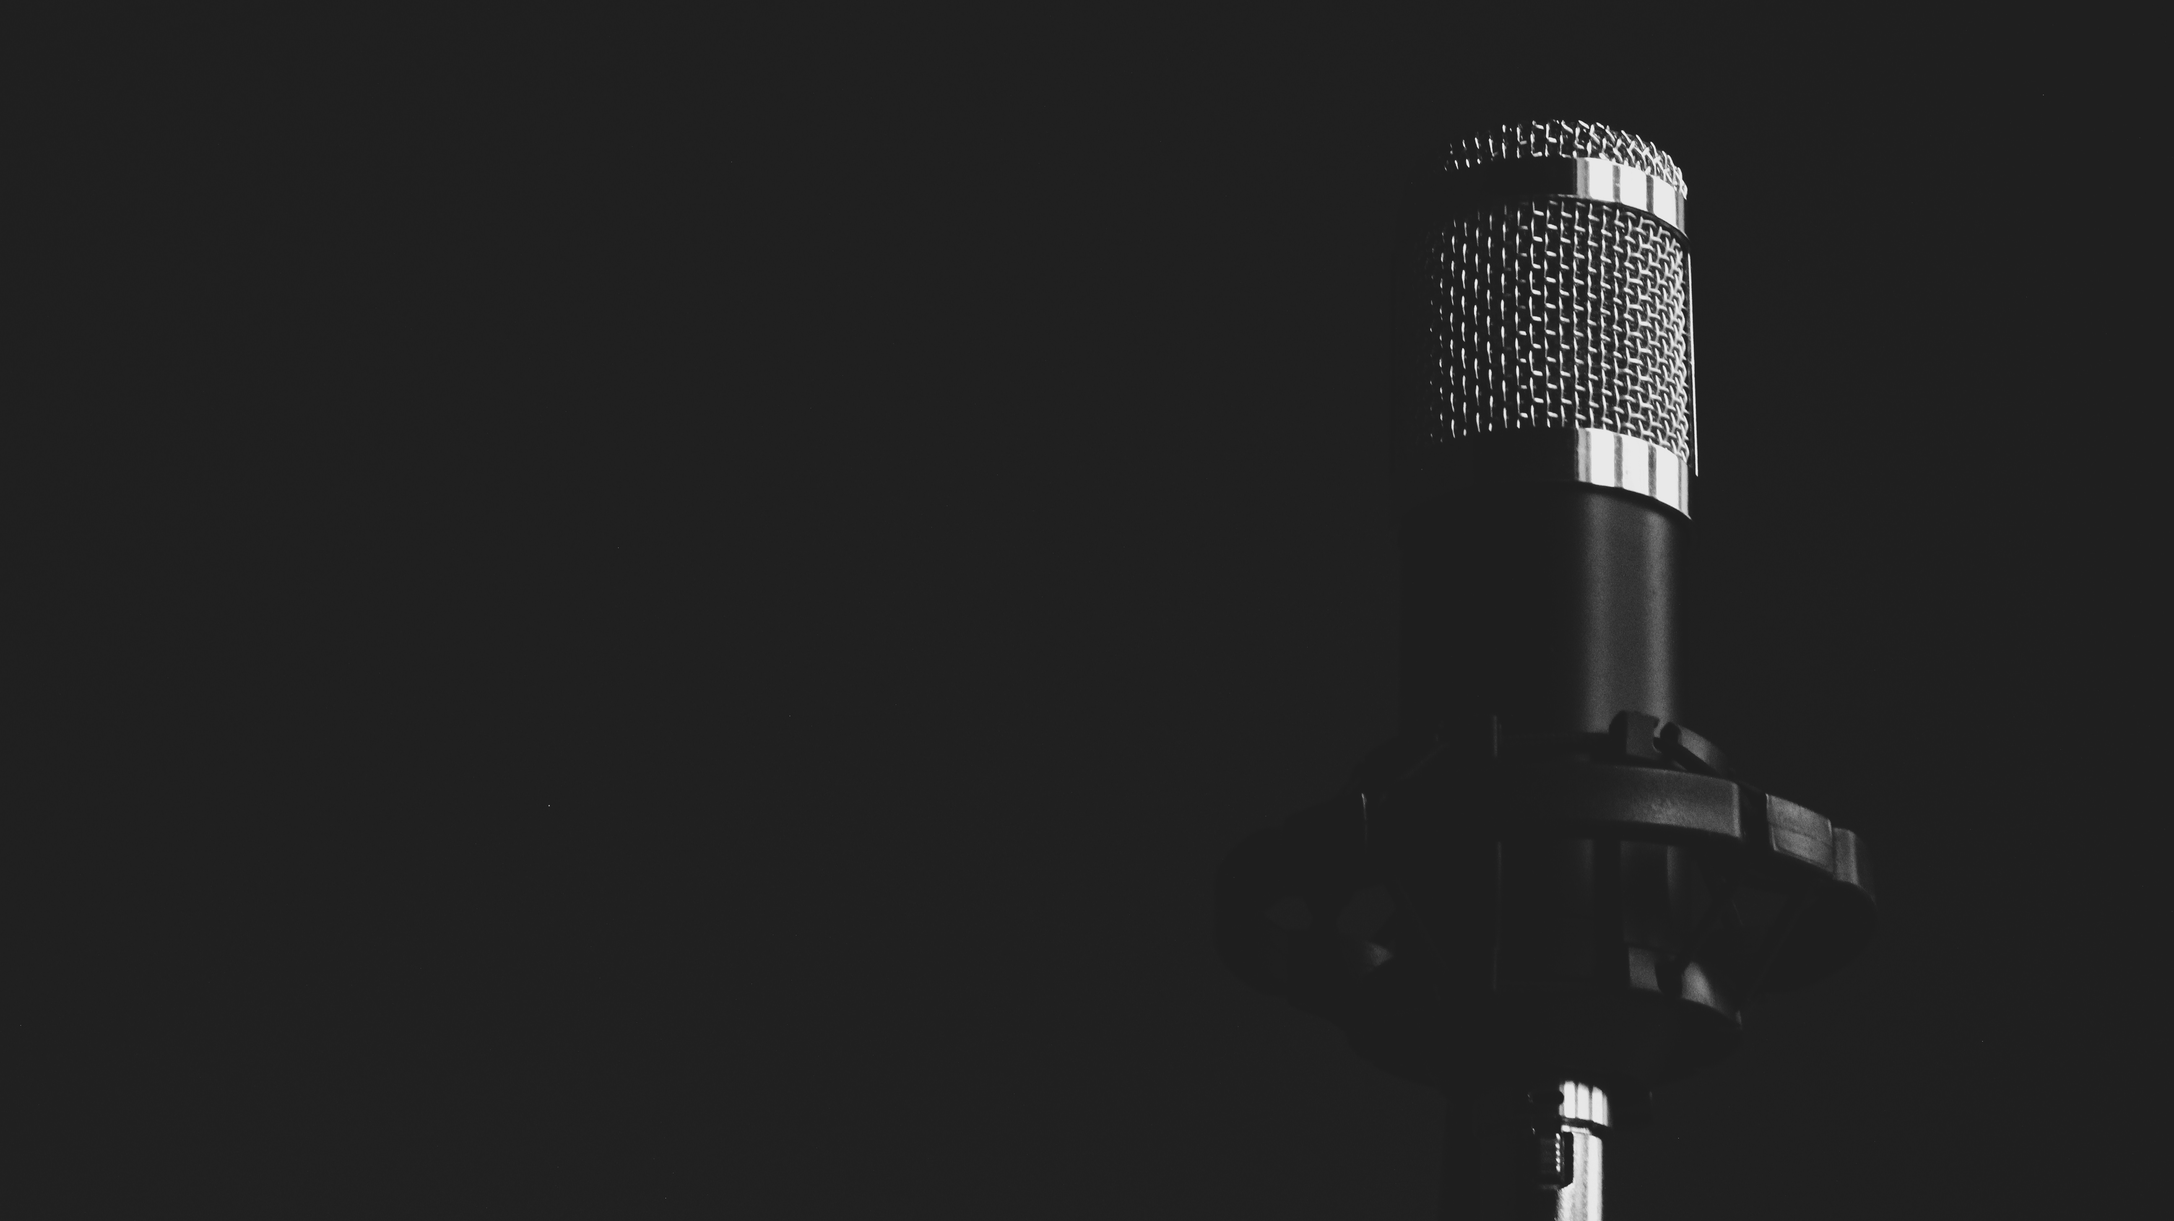
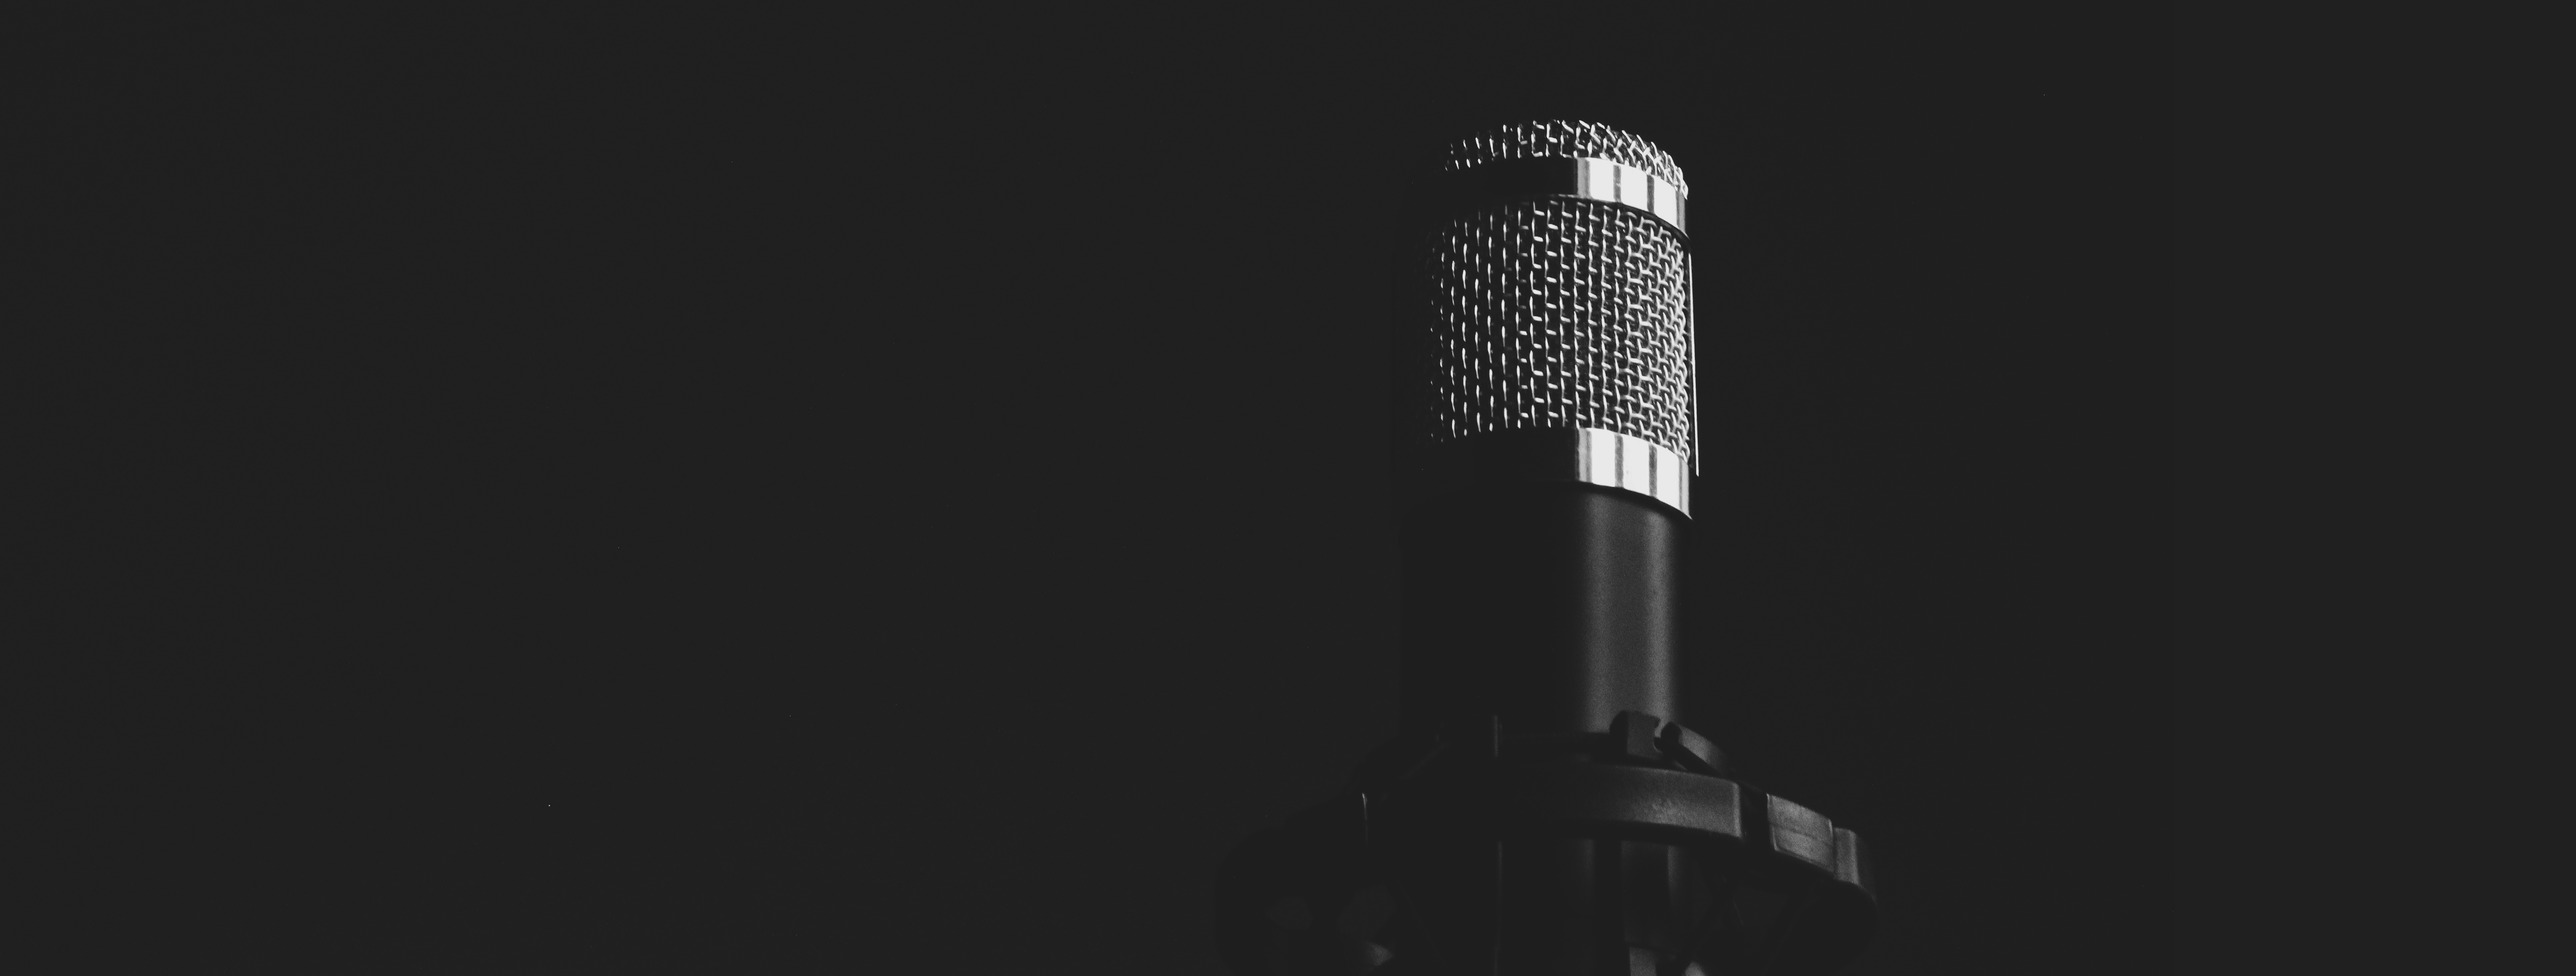
design and factorization
new heros to play with
new bg color, less grey, more blue
metadata factorised

diff --git a/layouts/_default/single.html b/layouts/_default/single.html
@@ -26,63 +26,7 @@
         {{ .Content }}
       </main>
 
-      <footer class="card-divider" id="metadatas">
-        <p><i class="fa fa-pencil"></i> Publié
-          {{ if .Params.date }}
-            le {{ dateFormat "02/01/2006" .Params.date }}
-          {{ end }}
-          {{ if .Params.Publisher }}
-            {{ $publisher := index .Site.Data.authors .Params.publisher }}
-            par <a href="/authors/{{.Params.publisher}}">{{ $publisher.name }}</a>
-          {{ else }}
-            par <a href="/authors/comptoirsecu">l'équipe du Comptoir Sécu</a>
-          {{ end }}
-        </p>
-        {{ with .Params.authors }}
-          <p><i class="fa fa-user"></i> Contributeurs:
-            {{ $len := sub (len .) 1  }}
-            {{ range $i, $a :=  . }}
-              {{ $author := index $.Site.Data.authors $a }}
-               <a href="/authors/{{$a}}">{{ $author.name }}</a>{{ if lt $i (sub $len 1) }}, {{ else }}{{ if lt $i $len }} et {{ else }}.{{ end }}{{ end }}
-
-            {{ end }}
-          </p>
-        {{ end }}
-        {{ with .Params.guests }}
-          <p><i class="fa fa-user-plus"></i> Invités:
-            {{ $len := sub (len .) 1  }}
-            {{ range $i, $g := . }}
-                {{ $guest := index $.Site.Data.guests $g }}
-                <a href="/guests/{{ $g | urlize}}">{{ $guest.name }}</a>{{ if lt $i (sub $len 1) }}, {{ else }}{{ if lt $i $len }} et {{ else }}.{{ end }}{{ end }}
-            {{ end }}
-          </p>
-        {{ end }}
-        {{ with .Params.songs }}
-          <p><i class="fa fa-music"></i> Interludes:
-            {{ $len := sub (len .) 1  }}
-            {{ range $i, $s := . }}
-                {{ $song := index $.Site.Data.songs $s }}
-                <a href="/songs/{{ $s | urlize}}">{{ $song.song }} ({{ $song.artist}})</a>{{ if lt $i (sub $len 1) }}, {{ else }}{{ if lt $i $len }} et {{ else }}.{{ end }}{{ end }}
-            {{ end }}
-          </p>
-        {{ end }}
-        {{ with .Params.drinks }}
-          <p><i class="fa fa-glass"></i> Dégustations:
-            {{ $len := sub (len .) 1  }}
-            {{ range $i, $d := . }}
-                {{ $drink := index $.Site.Data.drinks $d }}
-                <a href="/drinks/{{ $d | urlize}}">{{ $drink.name }}</a>{{ if lt $i (sub $len 1) }}, {{ else }}{{ if lt $i $len }} et {{ else }}.{{ end }}{{ end }}
-            {{ end }}
-          </p>
-        {{ end }}
-        {{ with .Params.tags }}
-        {{ $len := len . }}
-        <p><i class="fa fa-tag"></i> Tags:  {{ range $i, $tag := . }}
-                  <span class="label"><a href="/tags/{{ $tag | urlize}}">{{ $tag }}</a></span>
-                  {{ end }}
-        </p>
-        {{ end }}
-      </footer>
+      {{ partial "metadata.html" . }}
 
     </article>
   </section>

diff --git a/layouts/partials/metadata.html b/layouts/partials/metadata.html
@@ -1,0 +1,57 @@
+<footer class="card-divider" id="metadatas">
+  <p><i class="fa fa-pencil"></i> Publié
+    {{ if .Params.date }}
+      le {{ dateFormat "02/01/2006" .Params.date }}
+    {{ end }}
+    {{ if .Params.Publisher }}
+      {{ $publisher := index .Site.Data.authors .Params.publisher }}
+      par <a href="/authors/{{.Params.publisher}}">{{ $publisher.name }}</a>
+    {{ else }}
+      par <a href="/authors/comptoirsecu">l'équipe du Comptoir Sécu</a>
+    {{ end }}
+  </p>
+  {{ with .Params.authors }}
+    <p><i class="fa fa-user"></i> Contributeurs:
+      {{ $len := sub (len .) 1  }}
+      {{ range $i, $a :=  . }}
+        {{ $author := index $.Site.Data.authors $a }}
+         <a href="/authors/{{$a}}">{{ $author.name }}</a>{{ if lt $i (sub $len 1) }}, {{ else }}{{ if lt $i $len }} et {{ else }}.{{ end }}{{ end }}
+
+      {{ end }}
+    </p>
+  {{ end }}
+  {{ with .Params.guests }}
+    <p><i class="fa fa-user-plus"></i> Invités:
+      {{ $len := sub (len .) 1  }}
+      {{ range $i, $g := . }}
+          {{ $guest := index $.Site.Data.guests $g }}
+          <a href="/guests/{{ $g | urlize}}">{{ $guest.name }}</a>{{ if lt $i (sub $len 1) }}, {{ else }}{{ if lt $i $len }} et {{ else }}.{{ end }}{{ end }}
+      {{ end }}
+    </p>
+  {{ end }}
+  {{ with .Params.songs }}
+    <p><i class="fa fa-music"></i> Interludes:
+      {{ $len := sub (len .) 1  }}
+      {{ range $i, $s := . }}
+          {{ $song := index $.Site.Data.songs $s }}
+          <a href="/songs/{{ $s | urlize}}">{{ $song.song }} ({{ $song.artist}})</a>{{ if lt $i (sub $len 1) }}, {{ else }}{{ if lt $i $len }} et {{ else }}.{{ end }}{{ end }}
+      {{ end }}
+    </p>
+  {{ end }}
+  {{ with .Params.drinks }}
+    <p><i class="fa fa-glass"></i> Dégustations:
+      {{ $len := sub (len .) 1  }}
+      {{ range $i, $d := . }}
+          {{ $drink := index $.Site.Data.drinks $d }}
+          <a href="/drinks/{{ $d | urlize}}">{{ $drink.name }}</a>{{ if lt $i (sub $len 1) }}, {{ else }}{{ if lt $i $len }} et {{ else }}.{{ end }}{{ end }}
+      {{ end }}
+    </p>
+  {{ end }}
+  {{ with .Params.tags }}
+  {{ $len := len . }}
+  <p><i class="fa fa-tag"></i> Tags:  {{ range $i, $tag := . }}
+            <span class="label"><a href="/tags/{{ $tag | urlize}}">{{ $tag }}</a></span>
+            {{ end }}
+  </p>
+  {{ end }}
+</footer>

diff --git a/src/scss/_custom.scss b/src/scss/_custom.scss
@@ -9,7 +9,7 @@ $metadata-link-color: $violet;
 $hero-height: 35vh;
 $hero-section-text: $white;
 $hero-logo-image: '/images/logo-white.png';
-$hero-background-image: '/images/hero-blue.jpg';
+$hero-background-image: '/images/hero-black3.jpg';
 
 $menu-link-color: $white;
 $top-bar-title-link-color: $white;

diff --git a/src/scss/_settings.scss b/src/scss/_settings.scss
@@ -48,7 +48,7 @@
 
 /// My color palette
 
-$ultraviolet: #2C3E50;//#19055A;
+$ultraviolet: #183152; //7#2C3E50;//#19055A;
 $violet: #E74C3C;//#3E0894;
 $lila: #E74C3C;//#5E42A6;
 $blue: #4729FF;
